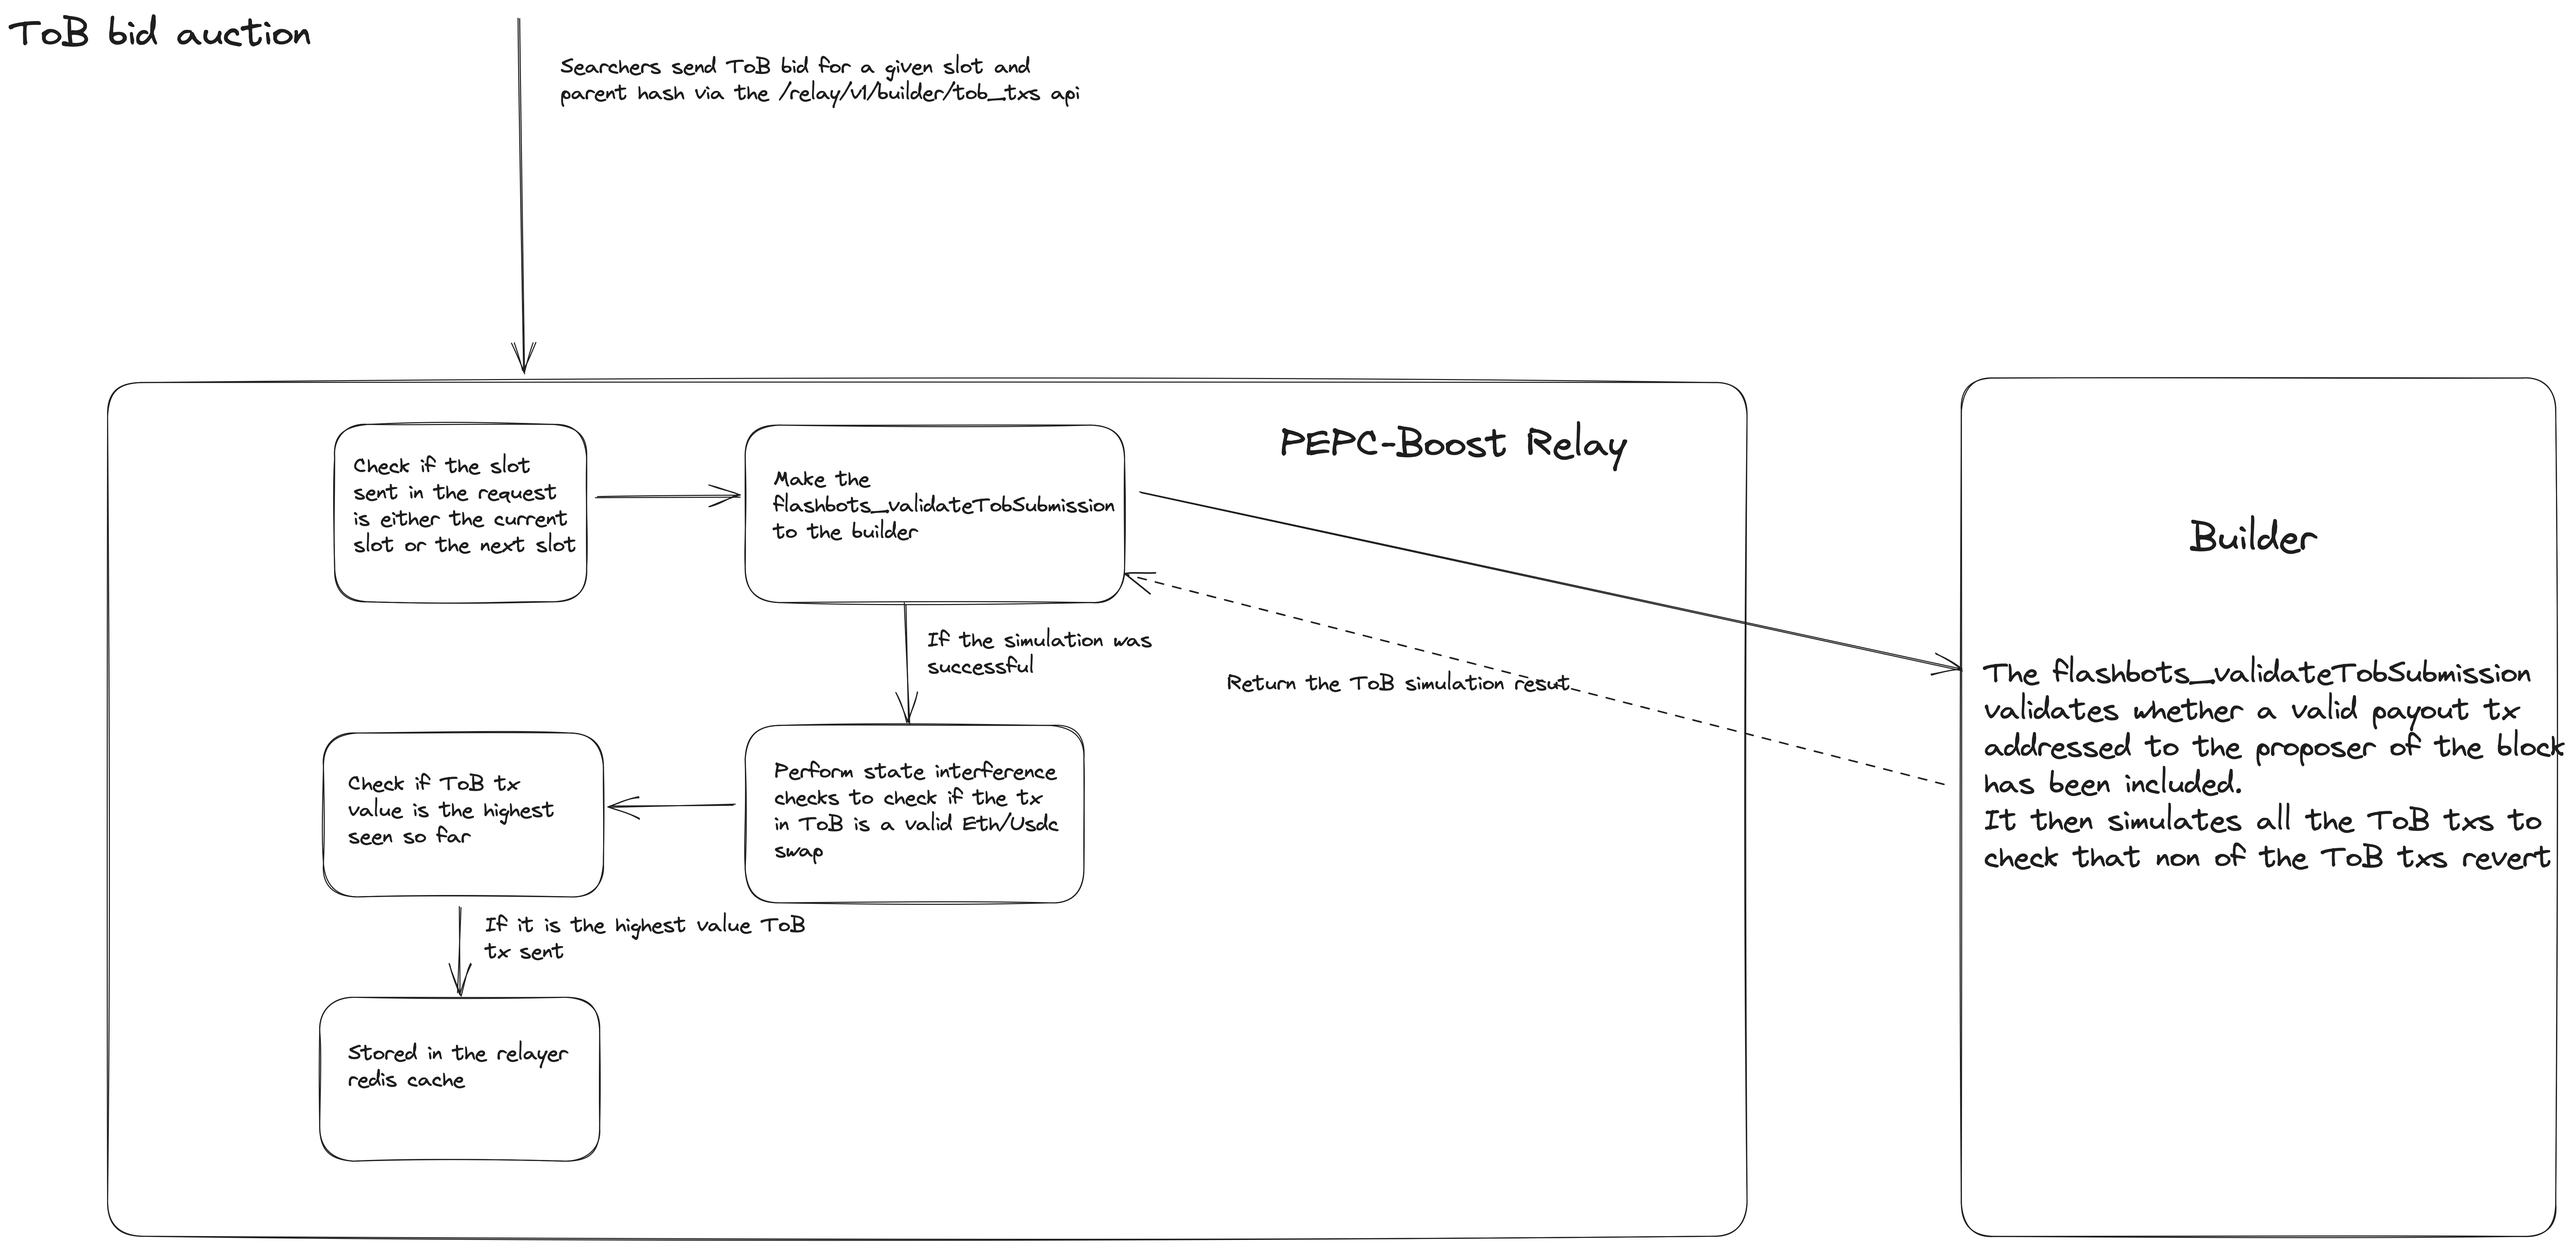
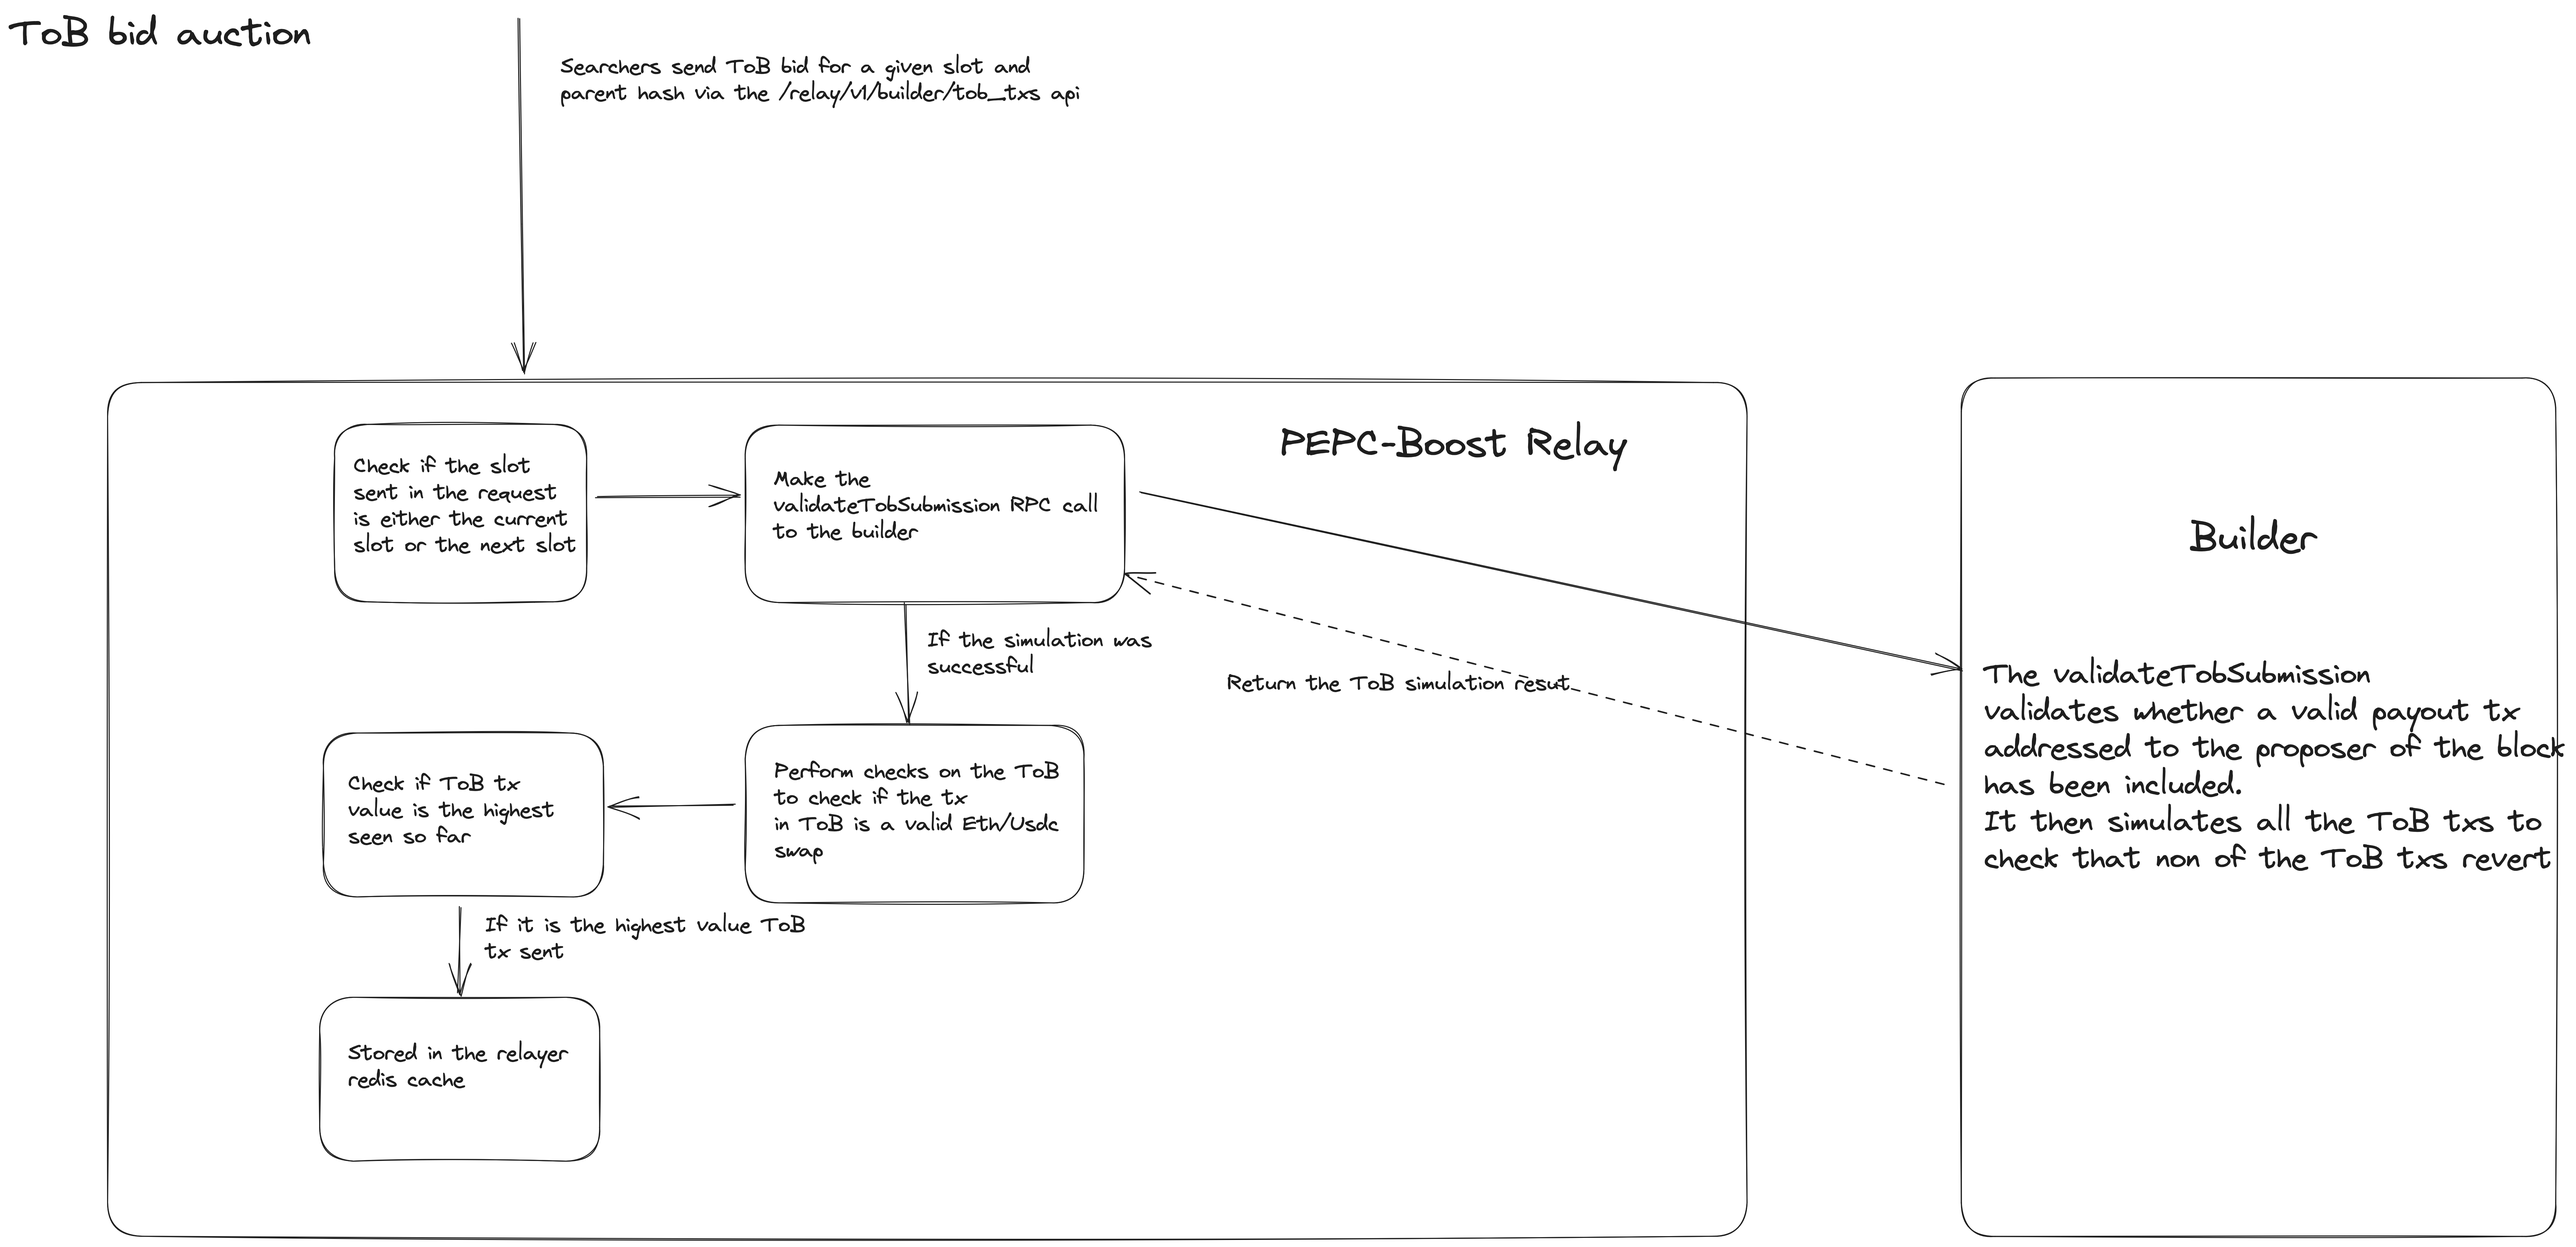
update TOB_AUCTION diagrams

diff --git a/TOB_AUCTION.md b/TOB_AUCTION.md
@@ -4,7 +4,7 @@ PEPC-Boost allows searchers to bid for the top of the block (ToB) of the block p
 
 Within this auction, searchers have the opportunity to participate by submitting transactions (txs) they wish to see included at the top of the block proposed for that specific slot. The searchers also have to specify the parent hash of the block on top which they built their ToB txs. The PEPC-Boost relay stores the highest value ToB txs sent for a given slot and parent hash. The value of the ToB transactions is determined by the payout offered by the searcher to the proposer of the block. Note that searchers can only submit txs they want to include in the current slot or the next slot.  
 
-To minimize conflicts with the RoB (Rest of Block), the ToB transactions undergo state interference checks. Specifically, they are screened to identify whether they involve an ETH/USDC swap in the initial versions. In the V0 of PEPC-Boost, we only allow 1 ToB which as mentioned before is a uniswap v3 ETH/USDC swap. In future versions, we plan to expand the slots available for auction in the ToB. This will enable PEPC-Boost to have multiple parallel auctions running for the different slots available to bid for on the ToB. Multiple searchers can compete for the different available slots in the ToB. This auction essentially opens up the blockspace of validators not only the builders but also the searchers.
+We currently only allow CEX-DEX arbitrage related txs on the ToB. In the V0 of PEPC-Boost, we only allow 1 ToB which as mentioned before is a uniswap v3 ETH/USDC swap. In future versions, we plan to expand the slots available for auction in the ToB. This will enable a searcher to bid for more space on the ToB. This auction essentially opens up the blockspace of validators not only the builders but also the searchers.
 
 Searchers submit the ToB txs along with a payout tx to the proposer of the block for the provided slot. They also provide the parent hash on top of which they have built their ToB tx. They submit to the `/relay/v1/builder/tob_txs` endpoint. You can refer to the diagram for the workflow of this endpoint.
 
